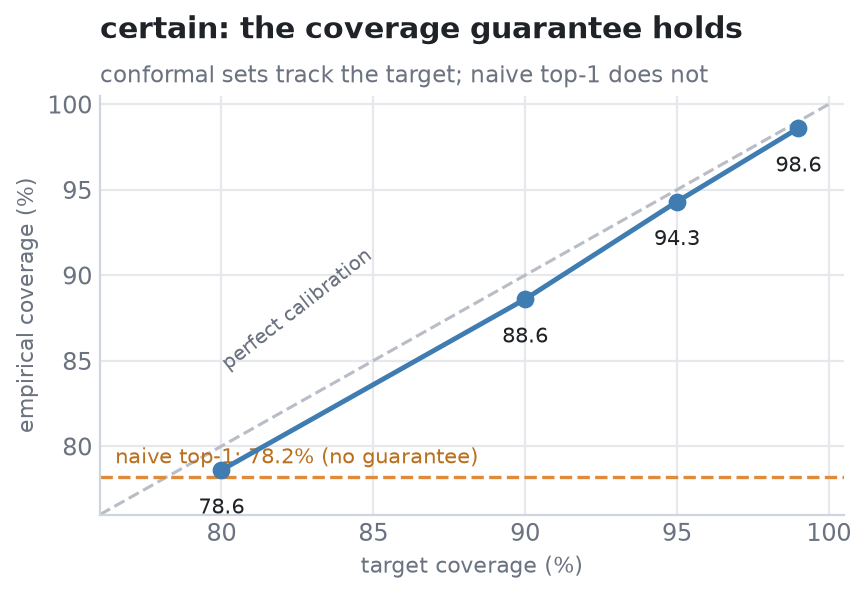
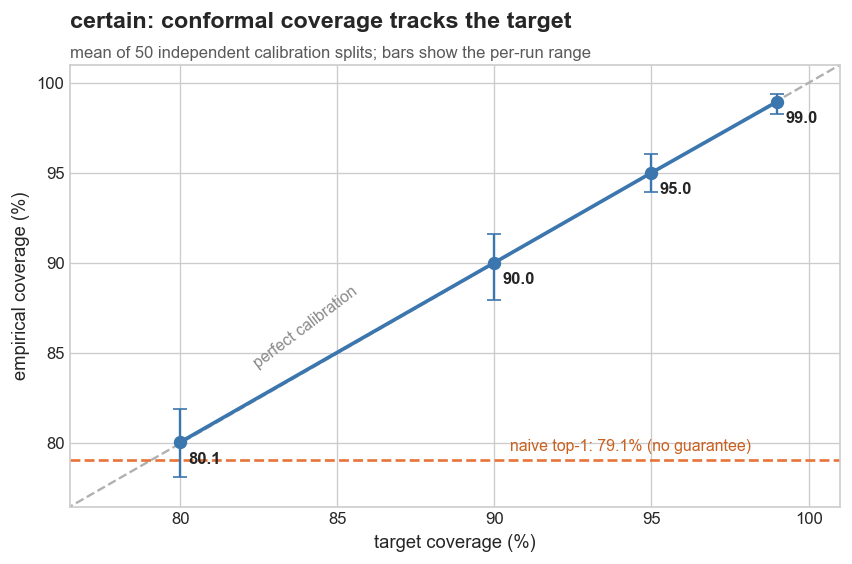
fix(bench): average coverage over calibration splits; correct the guarantee claim
bench_coverage.py reported a single calibration split (SEED = 7), which put all
four rows below their target under a heading reading "the guarantee holds", and
the chart drew every point below the perfect-calibration diagonal. That reads as
the benchmark disproving its own claim. The conformal guarantee is marginal: it
bounds coverage in expectation over the draw of the calibration set, not on every
run. The benchmark now averages 50 independent splits and reports the per-run
range alongside the mean, which lands on target (99.0/95.0/90.0/80.1).

Also:
- document the calibration-size floor for small alpha. A target of 1-alpha needs
  >= ceil(1/alpha)-1 examples or qhat saturates at 1.0 and every set contains
  every label, so alpha=0.01 needs >= 99. The constructor accepts any alpha, so
  this is the caller's to respect.
- drop the PyPI badge and install line; certain-conformal is not published.
- add docs/make_benchmark_chart.py so the README chart is reproducible rather
  than drawn by hand, and regenerate it.

diff --git a/benchmarks/bench_coverage.py b/benchmarks/bench_coverage.py
@@ -2,9 +2,14 @@
 
 A naive classifier answers its single most likely label; its "coverage" is just
 its accuracy, and it comes with no guarantee. Conformal prediction sets are
-calibrated so the true label is inside the set at the target rate. This benchmark
-shows the empirical coverage tracking ``1 - alpha`` across several alphas, on a
-held-out test split, vs the fixed (and lower) coverage of top-1.
+calibrated so the true label is inside the set at the target rate.
+
+The guarantee is *marginal*: coverage is at least ``1 - alpha`` in expectation
+over the draw of the calibration set, not on every individual run. A single
+calibration split lands above or below the target by chance, so averaging one
+run tells you very little. This benchmark therefore repeats the whole procedure
+over many independent splits and reports the mean, which is the quantity the
+theory actually bounds, alongside the per-run spread.
 
 Run: python benchmarks/bench_coverage.py
 """
@@ -17,7 +22,8 @@ from certain import ConformalClassifier
 
 CLASSES = ["a", "b", "c", "d", "e"]
 N = 4000
-SEED = 7
+REPEATS = 50
+ALPHAS = (0.01, 0.05, 0.10, 0.20)
 
 
 def synth(n, rng, sharpness=1.6):
@@ -36,23 +42,43 @@ def top1_coverage(rows, labels) -> float:
     return sum(clf.predict(r) == y for r, y in zip(rows, labels)) / len(labels)
 
 
-def main() -> None:
-    rng = random.Random(SEED)
-    cal_rows, cal_labels = synth(N, rng)
-    test_rows, test_labels = synth(N, rng)
+def mean(xs) -> float:
+    return sum(xs) / len(xs)
 
-    print(f"classes: {len(CLASSES)}   calibration: {N}   test: {N}\n")
-    print(f"naive top-1 coverage (= accuracy): {top1_coverage(test_rows, test_labels):.1%}")
+
+def main() -> None:
+    print(f"classes: {len(CLASSES)}   calibration: {N}   test: {N}   "
+          f"independent splits: {REPEATS}\n")
+
+    naive = []
+    results = {a: {"cov": [], "size": []} for a in ALPHAS}
+
+    for seed in range(REPEATS):
+        rng = random.Random(seed)
+        cal_rows, cal_labels = synth(N, rng)
+        test_rows, test_labels = synth(N, rng)
+        naive.append(top1_coverage(test_rows, test_labels))
+        for alpha in ALPHAS:
+            clf = ConformalClassifier(alpha=alpha)
+            clf.calibrate(cal_rows, cal_labels)
+            s = clf.evaluate(test_rows, test_labels)
+            results[alpha]["cov"].append(s["coverage"])
+            results[alpha]["size"].append(s["avg_set_size"])
+
+    print(f"naive top-1 coverage (= accuracy): {mean(naive):.1%}")
     print("  (no guarantee -- it is whatever the model's accuracy happens to be)\n")
 
-    print(f"{'target':>8} {'empirical':>10} {'avg set size':>13}")
-    for alpha in (0.01, 0.05, 0.10, 0.20):
-        clf = ConformalClassifier(alpha=alpha)
-        clf.calibrate(cal_rows, cal_labels)
-        s = clf.evaluate(test_rows, test_labels)
-        print(f"{1 - alpha:>8.0%} {s['coverage']:>10.1%} {s['avg_set_size']:>13.2f}")
-    print("\nempirical coverage tracks the target -- guaranteed >= 1-alpha, "
-          "distribution-free.")
+    print(f"{'target':>8} {'mean cov':>9} {'per-run range':>18} {'avg set size':>13}")
+    for alpha in ALPHAS:
+        cov = results[alpha]["cov"]
+        lo, hi = min(cov), max(cov)
+        print(f"{1 - alpha:>8.0%} {mean(cov):>9.1%} "
+              f"{lo:>9.1%} to {hi:<6.1%} {mean(results[alpha]['size']):>13.2f}")
+
+    print("\nMean coverage lands on the target: that is the marginal guarantee,")
+    print("distribution-free and finite-sample, assuming exchangeable data.")
+    print("Individual runs fall either side of it, which is expected and is why")
+    print("a single split is not evidence for or against the guarantee.")
 
 
 if __name__ == "__main__":

diff --git a/docs/make_benchmark_chart.py b/docs/make_benchmark_chart.py
@@ -1,0 +1,94 @@
+"""Regenerate docs/benchmark.png from the benchmark in benchmarks/bench_coverage.py.
+
+Kept as a script so the chart in the README is reproducible rather than drawn by
+hand. matplotlib is a docs-time dependency only; the library itself stays
+dependency-free.
+
+Run: python docs/make_benchmark_chart.py
+"""
+
+from __future__ import annotations
+
+import os
+import random
+import sys
+
+import matplotlib
+
+matplotlib.use("Agg")
+import matplotlib.pyplot as plt  # noqa: E402
+
+_ROOT = os.path.join(os.path.dirname(__file__), "..")
+sys.path.insert(0, _ROOT)
+sys.path.insert(0, os.path.join(_ROOT, "benchmarks"))
+
+from bench_coverage import (  # noqa: E402
+    ALPHAS,
+    N,
+    REPEATS,
+    mean,
+    synth,
+    top1_coverage,
+)
+from certain import ConformalClassifier  # noqa: E402
+
+
+def collect():
+    naive, results = [], {a: [] for a in ALPHAS}
+    for seed in range(REPEATS):
+        rng = random.Random(seed)
+        cal_rows, cal_labels = synth(N, rng)
+        test_rows, test_labels = synth(N, rng)
+        naive.append(top1_coverage(test_rows, test_labels))
+        for alpha in ALPHAS:
+            clf = ConformalClassifier(alpha=alpha)
+            clf.calibrate(cal_rows, cal_labels)
+            results[alpha].append(clf.evaluate(test_rows, test_labels)["coverage"])
+    return mean(naive), results
+
+
+def main() -> None:
+    naive, results = collect()
+    targets = [100 * (1 - a) for a in ALPHAS]
+    means = [100 * mean(results[a]) for a in ALPHAS]
+    lo = [m - 100 * min(results[a]) for m, a in zip(means, ALPHAS)]
+    hi = [100 * max(results[a]) - m for m, a in zip(means, ALPHAS)]
+
+    plt.style.use("seaborn-v0_8-whitegrid")
+    fig, ax = plt.subplots(figsize=(7.2, 4.8), dpi=120)
+
+    ax.plot([76, 101], [76, 101], ls="--", color="#b0b0b0", lw=1.4, zorder=1)
+    ax.annotate("perfect calibration", xy=(84, 84), rotation=37,
+                color="#8a8a8a", fontsize=9.5, ha="center", va="bottom")
+
+    ax.axhline(100 * naive, ls="--", color="#e8743b", lw=1.6, zorder=2)
+    ax.annotate(f"naive top-1: {100 * naive:.1f}% (no guarantee)",
+                xy=(90.5, 100 * naive + 0.5), color="#c9601f", fontsize=9.5)
+
+    ax.errorbar(targets, means, yerr=[lo, hi], fmt="o-", color="#3b76af",
+                ecolor="#3b76af", elinewidth=1.4, capsize=4, markersize=7,
+                lw=2.2, zorder=3)
+
+    for t, m in zip(targets, means):
+        ax.annotate(f"{m:.1f}", xy=(t, m), xytext=(5, -13),
+                    textcoords="offset points", fontsize=10, fontweight="bold")
+
+    ax.set_xlabel("target coverage (%)", fontsize=11)
+    ax.set_ylabel("empirical coverage (%)", fontsize=11)
+    ax.set_title("certain: conformal coverage tracks the target",
+                 fontsize=14, fontweight="bold", loc="left", pad=22)
+    ax.annotate(f"mean of {REPEATS} independent calibration splits; "
+                "bars show the per-run range",
+                xy=(0, 1.015), xycoords="axes fraction", fontsize=10,
+                color="#5a5a5a")
+    ax.set_xlim(76.5, 101)
+    ax.set_ylim(76.5, 101)
+
+    out = os.path.join(os.path.dirname(__file__), "benchmark.png")
+    fig.tight_layout()
+    fig.savefig(out, bbox_inches="tight")
+    print("wrote", out)
+
+
+if __name__ == "__main__":
+    main()

diff --git a/tests/test_certain.py b/tests/test_certain.py
@@ -113,3 +113,48 @@ def test_selective_validation():
         SelectiveAnswerer(target_error=1.5)
     with pytest.raises(RuntimeError):
         SelectiveAnswerer().answer(0.5)
+
+
+def test_small_alpha_needs_enough_calibration():
+    """A target of 1-alpha needs >= ceil(1/alpha)-1 calibration examples.
+
+    Pins the documented caveat in README "Calibration size and small alpha".
+    Below that size the conformal quantile saturates at 1.0 and every set holds
+    every label, so coverage is trivially 1.0 and the set carries no information.
+    """
+    import math
+
+    rng = random.Random(0)
+    for alpha in (0.2, 0.1, 0.05, 0.01):
+        n_min = math.ceil(1 / alpha) - 1
+
+        rows, labels = _synth(n_min - 1, rng)
+        assert ConformalClassifier(alpha=alpha).calibrate(rows, labels) == 1.0
+
+        rows, labels = _synth(n_min, rng)
+        assert ConformalClassifier(alpha=alpha).calibrate(rows, labels) < 1.0
+
+
+def test_vacuous_sets_below_minimum_calibration_size():
+    """Under-calibrated at alpha=0.01: every label is in every set."""
+    rng = random.Random(1)
+    rows, labels = _synth(50, rng)  # < 99, the minimum for alpha=0.01
+    clf = ConformalClassifier(alpha=0.01)
+    clf.calibrate(rows, labels)
+    assert clf.predict_set({c: rng.random() for c in CLASSES}) == set(CLASSES)
+
+
+def test_coverage_guarantee_holds_on_average():
+    """The guarantee is marginal: it holds in expectation, not per run.
+
+    A single split lands either side of the target, so this averages over
+    independent calibration draws, which is what the theory actually bounds.
+    """
+    alpha = 0.1
+    covs = []
+    for seed in range(20):
+        rng = random.Random(100 + seed)
+        clf = ConformalClassifier(alpha=alpha)
+        clf.calibrate(*_synth(600, rng))
+        covs.append(clf.evaluate(*_synth(600, rng))["coverage"])
+    assert sum(covs) / len(covs) >= 1 - alpha

diff --git a/README.md b/README.md
@@ -1,7 +1,6 @@
 # certain
 
 [![CI](https://github.com/ss1738/certain/actions/workflows/ci.yml/badge.svg)](https://github.com/ss1738/certain/actions/workflows/ci.yml)
-[![PyPI](https://img.shields.io/pypi/v/certain-conformal)](https://pypi.org/project/certain-conformal/)
 [![License: MIT](https://img.shields.io/badge/License-MIT-yellow.svg)](LICENSE)
 
 **Calibrated confidence and abstention for model outputs.** A softmax number
@@ -35,18 +34,26 @@ so that the returned set covers the truth at least at your target rate.
 
 ## Benchmark: the guarantee holds
 
-`benchmarks/bench_coverage.py`: 5-class problem, 4,000 calibration / 4,000 test:
+`benchmarks/bench_coverage.py`: 5-class problem, 4,000 calibration / 4,000 test,
+repeated over 50 independent calibration splits.
 
-| Target coverage | Empirical | Avg set size |
-|---|---|---|
-| 99% | 98.6% | 3.96 |
-| 95% | 94.3% | 2.71 |
-| 90% | 88.6% | 1.84 |
-| 80% | 78.6% | 1.12 |
+| Target coverage | Mean empirical | Per-run range | Avg set size |
+|---|---|---|---|
+| 99% | 99.0% | 98.2% to 99.4% | 4.01 |
+| 95% | 95.0% | 93.9% to 96.0% | 2.79 |
+| 90% | 90.0% | 88.0% to 91.6% | 1.91 |
+| 80% | 80.1% | 78.1% to 81.9% | 1.13 |
 
 ![certain: conformal coverage tracks the target, naive top-1 does not](docs/benchmark.png)
 
-Naive top-1 coverage is just its accuracy, **78.2%, with no guarantee**.
+The guarantee is **marginal**: coverage is at least `1 - alpha` in expectation over
+the draw of the calibration set, not on every individual run. The mean column is
+the quantity the theory bounds and it lands on the target; the range column shows
+single runs falling either side, which is expected. A single split is not evidence
+for or against the guarantee, so the benchmark averages rather than reporting one
+seed. Regenerate the chart with `python docs/make_benchmark_chart.py`.
+
+Naive top-1 coverage is just its accuracy, **79.1%, with no guarantee**.
 Conformal coverage tracks the target you ask for, and the set size tells you how
 much the model actually knows at that confidence level.
 
@@ -77,13 +84,22 @@ coverage guarantee.
 Scores are any non-negative per-label values (probabilities, exponentiated
 logprobs, judge scores); they're normalised internally.
 
+**Calibration size and small alpha.** A target of `1 - alpha` needs at least
+`ceil(1/alpha) - 1` calibration examples before the conformal quantile is finite.
+Below that, `qhat` saturates at 1.0 and every set contains every label: coverage is
+trivially 1.0 and the set is useless. `alpha=0.01` therefore needs **>= 99**
+calibration examples, `alpha=0.05` needs >= 19. The constructor accepts any alpha in
+(0, 1), so this is on the caller to respect.
+
 ## Install
 
 ```bash
-pip install certain-conformal      # or: pip install -e . from a clone
+git clone https://github.com/ss1738/certain
+cd certain && pip install -e .
 ```
 
-Python ≥ 3.9, no runtime dependencies.
+Not published on PyPI; install from the clone. Python ≥ 3.9, no runtime
+dependencies.
 
 ## References
 

diff --git a/docs/SHOW_HN.md b/docs/SHOW_HN.md
@@ -26,17 +26,21 @@ that:
 It's model-agnostic, feed it LLM logprobs, judge scores, classifier probabilities,
 retrieval scores.
 
-Benchmark (5 classes, 4k cal / 4k test): naive top-1 coverage is just its accuracy,
-**78.2% with no guarantee**. Conformal coverage tracks the target, 99%→98.6%,
-95%→94.3%, 90%→88.6%, and the set size tells you how much the model actually knows
-at that confidence.
+Benchmark (5 classes, 4k cal / 4k test, averaged over 50 independent calibration
+splits): naive top-1 coverage is just its accuracy, **79.1% with no guarantee**.
+Conformal mean coverage tracks the target, 99%→99.0%, 95%→95.0%, 90%→90.0%, and the
+set size tells you how much the model actually knows at that confidence.
 
 Repo, tests, benchmark: https://github.com/ss1738/certain
 
 Honest scope: `ConformalClassifier` carries the real finite-sample coverage
-guarantee (assuming exchangeability). `SelectiveAnswerer` controls *empirical*
-error and holds approximately on exchangeable test data; for a strict bound use the
-conformal sets or add a Learn-then-Test correction. Feedback welcome.
+guarantee (assuming exchangeability), and that guarantee is *marginal*, holding in
+expectation over the calibration draw rather than on every run, which is why the
+benchmark averages over 50 splits instead of reporting one seed. Small alpha needs
+a calibration set to match: `alpha=0.01` needs at least 99 examples or the quantile
+saturates and every set contains every label. `SelectiveAnswerer` controls
+*empirical* error and holds approximately on exchangeable test data; for a strict
+bound use the conformal sets or add a Learn-then-Test correction. Feedback welcome.
 
 ## First comment
 
